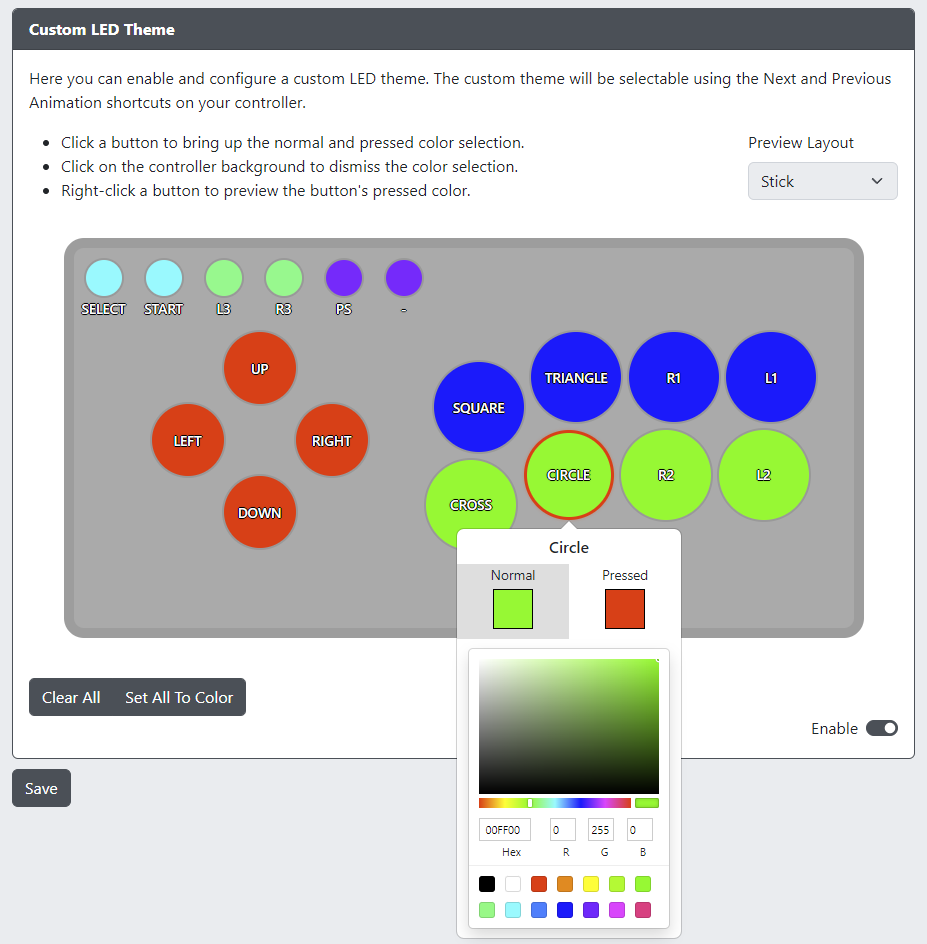
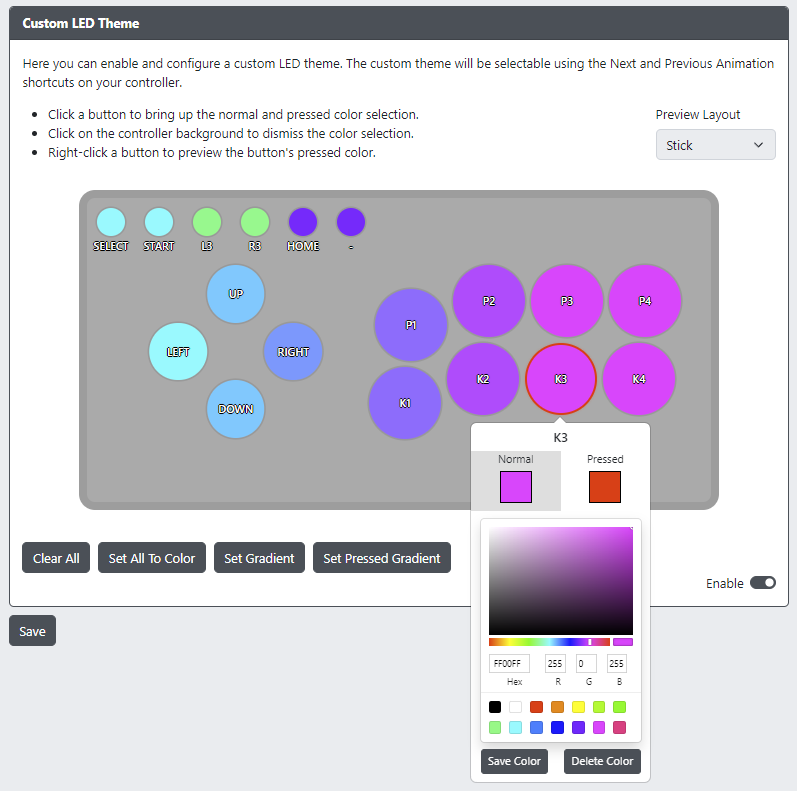
Documentation updates for custom LED enhancements (#236)
* Documentation updates for custom LED enhancements

* Update led theme label on backup page

diff --git a/docs/web-configurator.md b/docs/web-configurator.md
@@ -56,6 +56,12 @@ If you have a setup with per-button RGB LEDs, they can be configured here.
 * `Preview Layout` - Predefined layouts for previewing LED theme. **NOTE:** This is for preview only, does not affect controller operation.
 * `Clear All` - Prompts for confirmation to reset the current theme to all buttons black (LEDs off). Make sure you have saved and have a backup if you don't want to lose your customizations.
 * `Set All To Color` - Presents a color picker to set all buttons to the same normal or pressed color.
+* `Set Gradient` - Sets a horizontal gradient across the action buttons according to the `Preview Layout` selection.
+* `Set Pressed Gradient` - Same as `Set Gradient`, but for pressed button state.
+* `Save Color` - Save a custom color to the color picker palette.
+* `Delete Color` - Deletes a custom color from the color picker palette. Stock colors cannot be deleted.
+
+?> All saved colors and gradient selections are saved to your browser's local storage.
 
 If enabled, the Custom LED Theme will be available as another animation mode and will cycle with the `Previous Animation` and `Next Animation` shortcuts on your controller. You can also use the [Data Backup and Restoration](#data-backup-and-restoration) feature to create and share themes!
 
